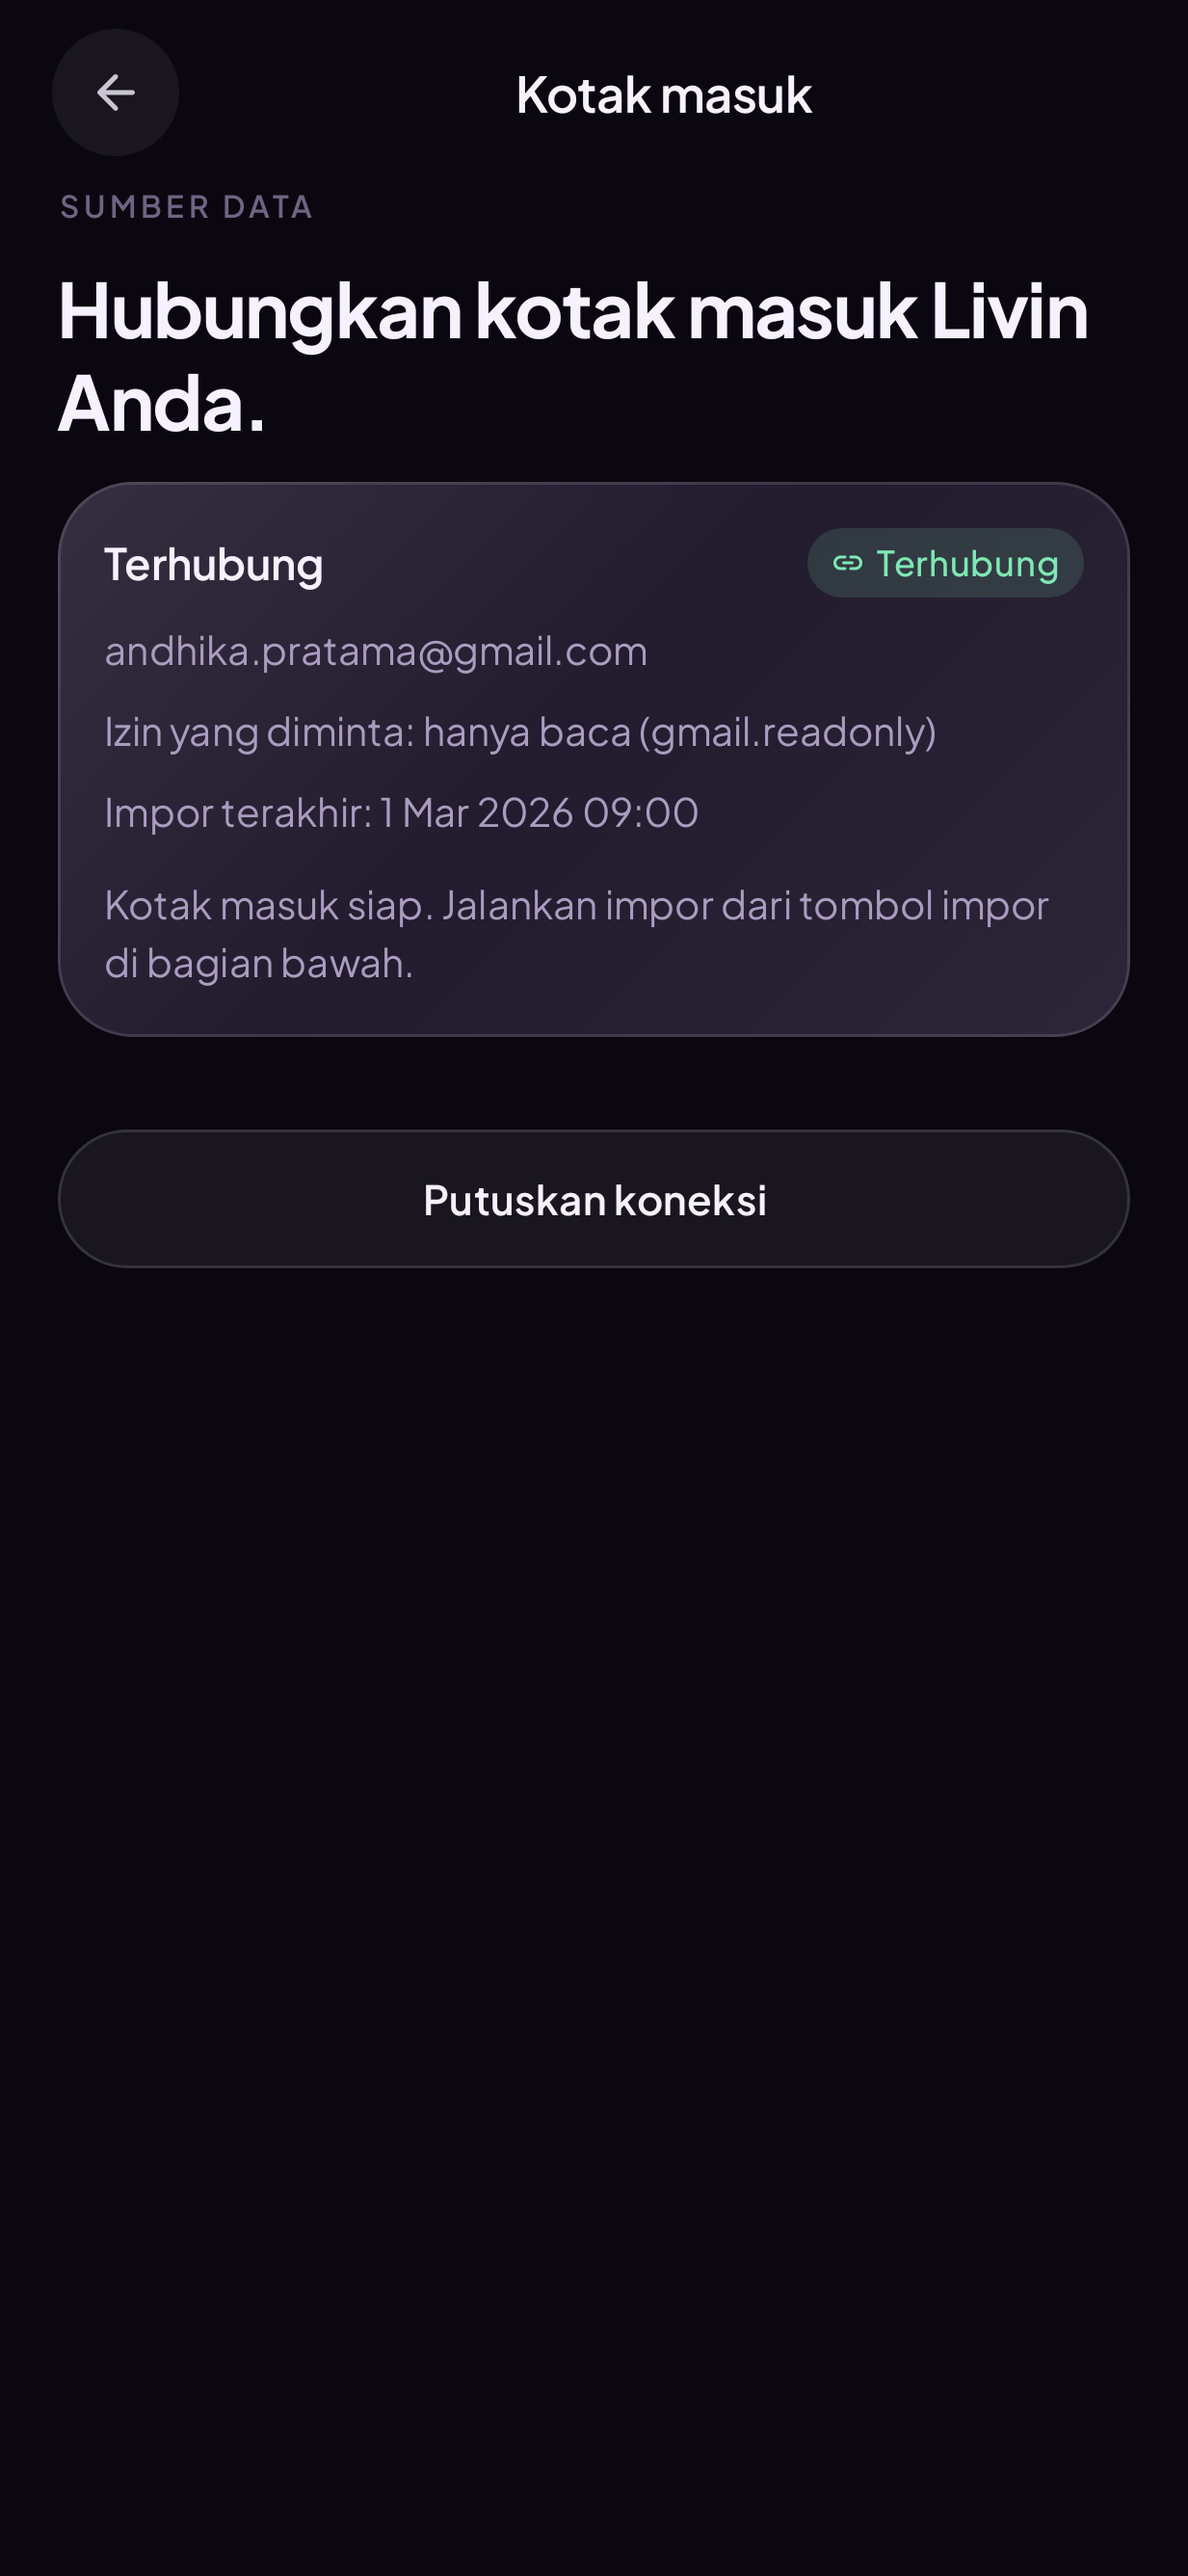
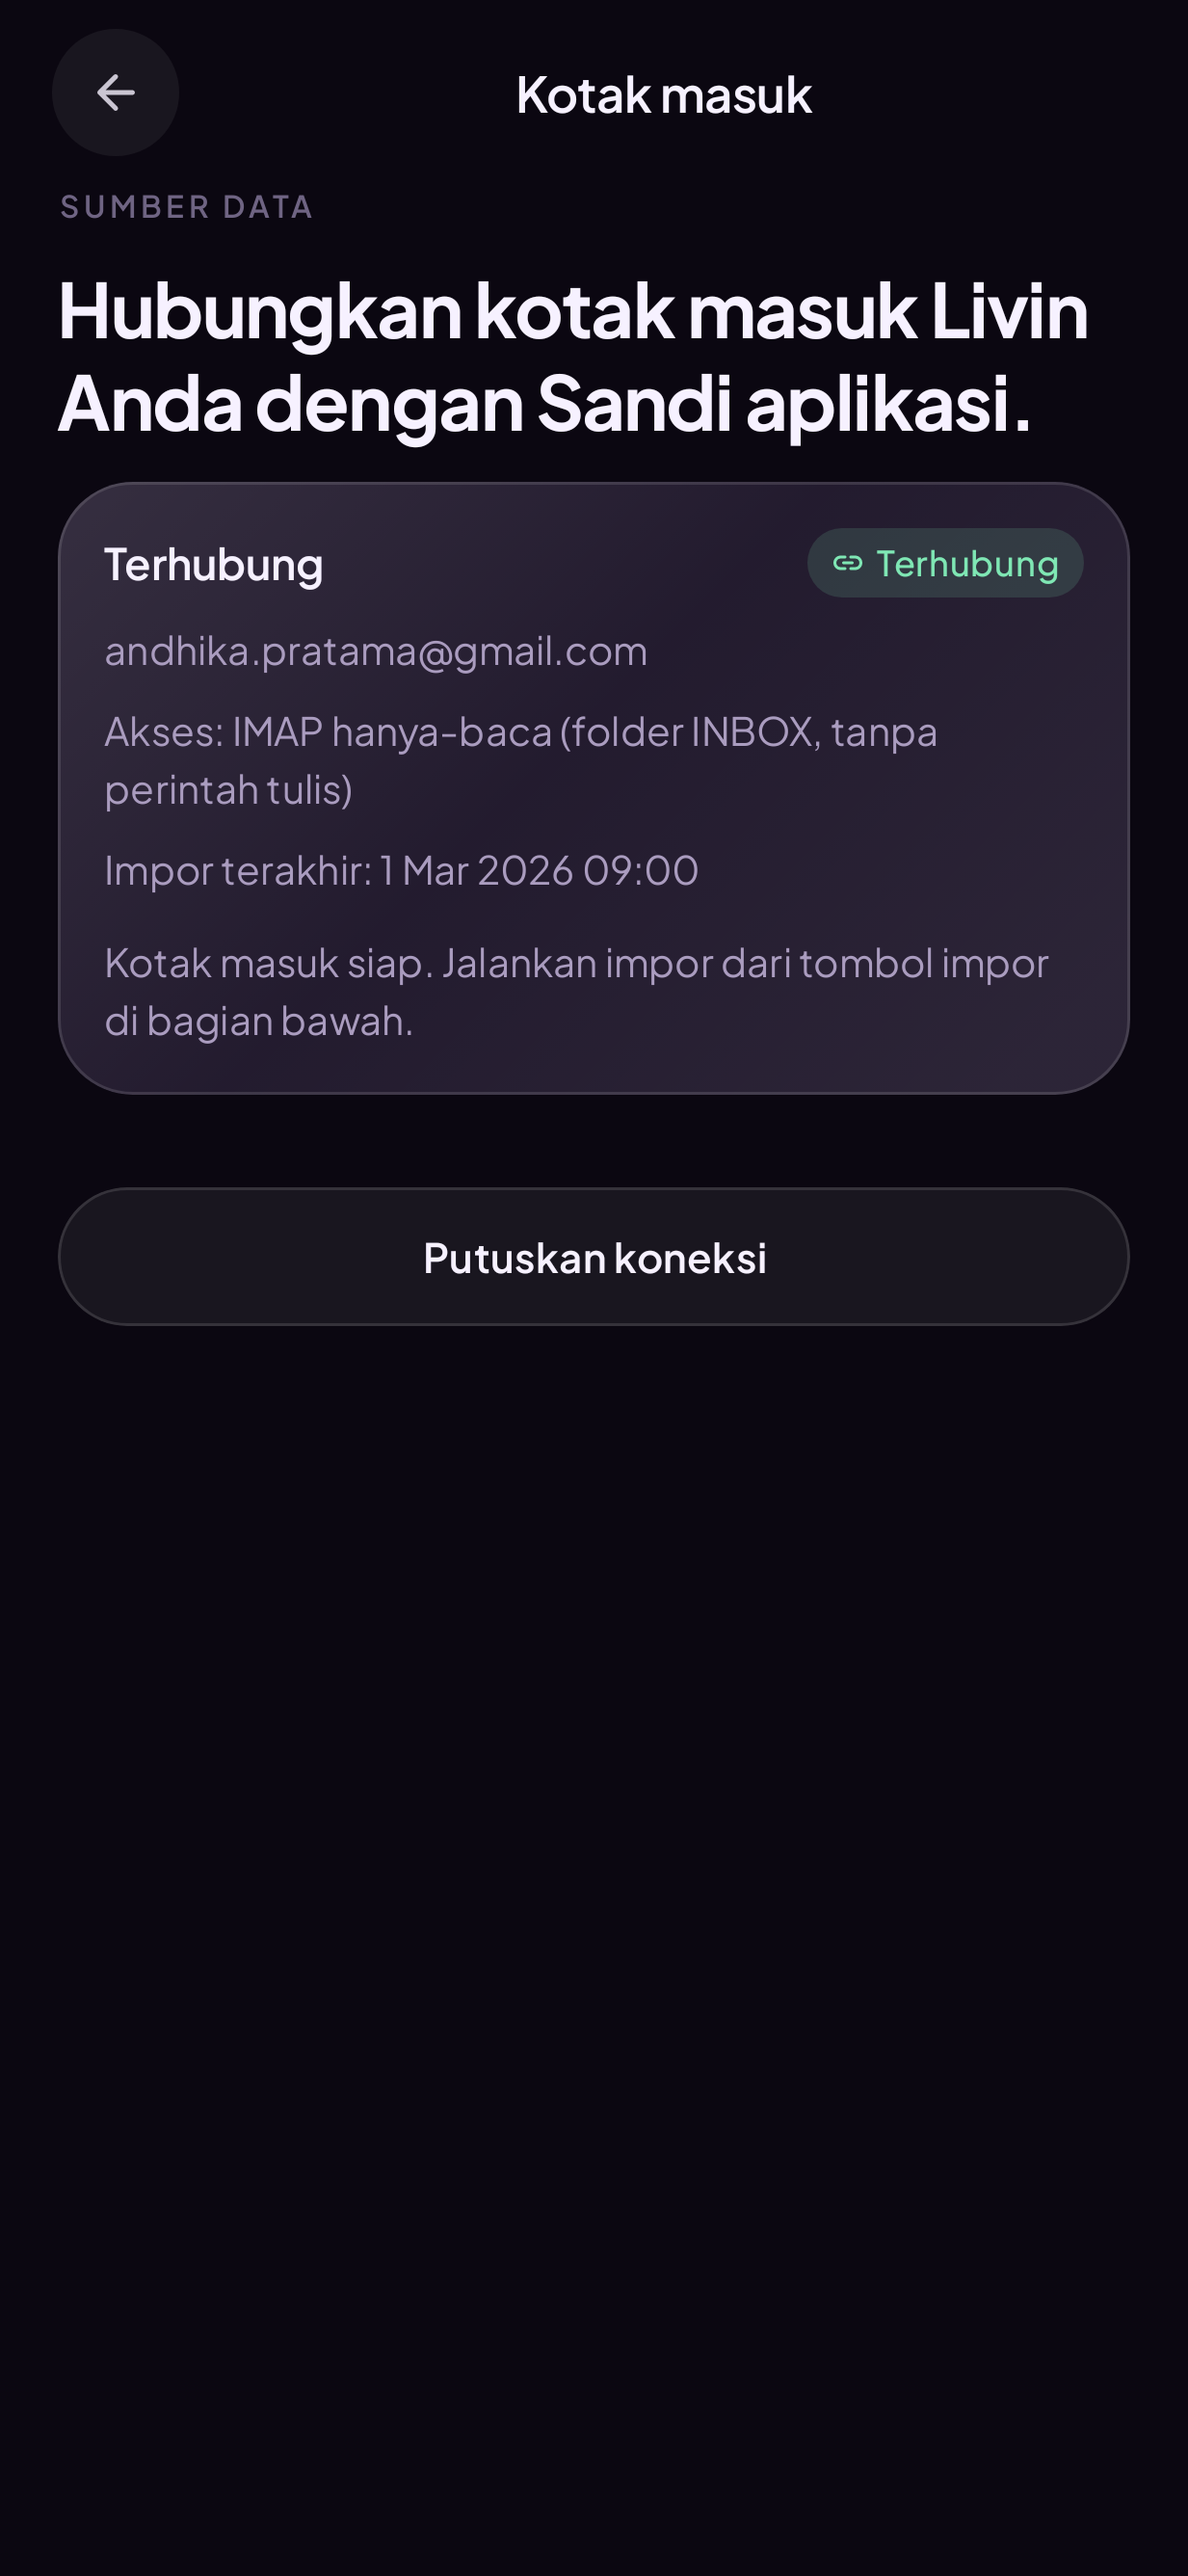
docs: amend CR-001 again with what Fase 3 (IMAP) forced
- DR-02 basis is UIDVALIDITY + UID, and is folder-scoped by nature
- FR-11 uses RFC 3501 search keys; no vendor extension required
- FR-16 pages by offset (100-message cap), not UID ranges
- NFR-05: no automatic IMAP retry; recovery is job-level
- FR-54 clears on deletion too and stores nothing on failed validation
- OI-13 states FLAG_SECURE is app-wide
- FR-07: under REAUTHORIZATION_REQUIRED local data stays readable and the UI must say so

Changed region(s): [[0.0308, 0.2795, 0.9554, 0.4968], [0.2157, 0.1242, 0.8629, 0.1863], [0.9246, 0.4658, 0.9554, 0.4968]]

diff --git a/docs/09_SRS_CHANGE_v0.3.md b/docs/09_SRS_CHANGE_v0.3.md
@@ -37,7 +37,7 @@ yang terkena, dampak pengguna, konsekuensi integrasi/keamanan, dan pembaruan acc
 | | |
 |---|---|
 | **Lama** | Enam state dipetakan ke kondisi OAuth. |
-| **Baru** | Enam state yang sama, dipetakan ke kondisi IMAP: `AUTHENTICATIONFAILED` ⇒ `REAUTHORIZATION_REQUIRED`; DNS/TLS/timeout ⇒ `UNAVAILABLE`; login OK ⇒ `CONNECTED`. |
+| **Baru** | Enam state yang sama, dipetakan ke kondisi IMAP: `AUTHENTICATIONFAILED` ⇒ `REAUTHORIZATION_REQUIRED`; DNS/TLS/timeout ⇒ `UNAVAILABLE`; login OK ⇒ `CONNECTED`. Saat `REAUTHORIZATION_REQUIRED`, data yang sudah diimpor **tetap terbaca** (NFR-22) dan UI harus menyatakan itu, bukan menyembunyikannya sebagai "tidak ada data". |
 | **Dampak** | teks bantuan berubah: "kata sandi aplikasi dicabut" menggantikan "izin OAuth dicabut". |
 
 ### FR-10 — konfigurasi tidak lengkap
@@ -51,14 +51,14 @@ yang terkena, dampak pengguna, konsekuensi integrasi/keamanan, dan pembaruan acc
 | | |
 |---|---|
 | **Lama** | "query Gmail only for the configured Livin sender and approved notification subjects". |
-| **Baru** | "…query the mailbox over IMAP with the allow-listed sender and subject criteria (Gmail `X-GM-RAW`), so that an email display name or body mention alone shall not make a message eligible." |
+| **Baru** | "…query the mailbox over IMAP using standard RFC 3501 search keys (`FROM`, `SUBJECT`, `SINCE`/`BEFORE`) restricted to the allow-listed sender and subject criteria, so that an email display name or body mention alone shall not make a message eligible. Provider-specific extensions shall not be required." |
 | **Dampak** | tetap; `X-GM-RAW` mempertahankan ekspresi pencarian yang setara. |
 
 ### FR-16 — pagination
 | | |
 |---|---|
 | **Lama** | pagination Gmail API + ingestion buffer. |
-| **Baru** | "…fetch matching messages in bounded UID batches with an ingestion buffer, then determine month membership from the parsed transaction timestamp in Asia/Jakarta rather than the received time." |
+| **Baru** | "…page over the search result set in bounded batches (default 100 messages) with an ingestion buffer, then determine month membership from the parsed transaction timestamp in Asia/Jakarta rather than the received time." |
 
 ### FR-18 — deduplikasi
 | | |
@@ -72,6 +72,11 @@ yang terkena, dampak pengguna, konsekuensi integrasi/keamanan, dan pembaruan acc
 |---|---|
 | **Lama** | HTTPS + TLS 1.2 untuk Google API. |
 | **Baru** | "…IMAP over TLS 1.2+ on port 993 with certificate and hostname verification; no cleartext IMAP." |
+
+### NFR-05 — retry (klarifikasi)
+| | |
+|---|---|
+| **Baru (klarifikasi)** | Pada jalur IMAP, kegagalan autentikasi **tidak pernah** diulang otomatis. Kegagalan jaringan **tidak** di-retry di dalam sumber data; pemulihan dilakukan pada tingkat job impor (pengguna menekan coba lagi). Aturan "maksimal dua kali retry dengan backoff" tetap berlaku untuk panggilan backend, bukan untuk sesi IMAP. |
 
 ### NFR-14 — kredensial
 | | |
@@ -117,7 +122,7 @@ FR-54 **adalah pengganti langsung FR-08**, bukan requirement tambahan yang tidak
 | **FR-51** | The system shall authenticate the user with a PAM account (email + password) hashed using a memory-hard KDF (scrypt, N=2^15, r=8, p=1, 16-byte salt). Passwords shall be 8–200 characters. Registration shall be invite-only, so no separate registration throttle is required. Password, salt and hash shall never be logged. |
 | **FR-52** | The system shall allow the application to operate fully without a backend account, using a local profile and a local session, so offline use is preserved. |
 | **FR-53** | The system shall rate-limit failed account-login attempts to 5 per 15 minutes per email+address-class, where address-class is IPv4 `/24` and IPv6 `/64` behind a trusted proxy header, and shall not disclose whether an email exists. Both real and unknown emails shall take the same time to reject. |
-| **FR-54** | The system shall obtain mailbox credentials only from a user-entered Gmail app password, validate them with an IMAP login before storing, wrap them with an Android Keystore key, and clear them on sign out or disconnect. |
+| **FR-54** | The system shall obtain mailbox credentials only from a user-entered Gmail app password, validate them with an IMAP login **before** storing, wrap them with an Android Keystore key, and clear them on sign out, on disconnect, and on workspace deletion. A failed validation shall store nothing. |
 | **FR-55** | The system shall open the mailbox read-only and issue no IMAP command that mutates message or folder state. |
 | **FR-56** | The system shall store consented monthly aggregates and reports in a managed cloud database, encrypted at rest and at field level, while transaction-level rows remain on the device. **Pending Fase 4** — Fase 2 belum menyentuh storage. |
 
@@ -129,7 +134,7 @@ FR-54 **adalah pengganti langsung FR-08**, bukan requirement tambahan yang tidak
 | | |
 |---|---|
 | **Lama** | fingerprint dari Gmail message ID; sumber "Gmail body/header". |
-| **Baru** | fingerprint dari HMAC(`X-GM-MSGID` + fields); sumber "IMAP body". Larangan menyimpan raw identifier tetap: `X-GM-MSGID` **tidak** disimpan, hanya turunan HMAC-nya. Kunci HMAC per-pengguna dibangkitkan sekali, dibungkus kunci Android Keystore (pola yang sama dengan passphrase SQLCipher), dan dihapus saat workspace dihapus. Rotasi kunci mengubah fingerprint sehingga baris lama tidak lagi cocok — karena itu rotasi dilarang tanpa migrasi ulang. |
+| **Baru** | fingerprint dari HMAC(`UIDVALIDITY` + `UID` + fields); sumber "IMAP body". Larangan menyimpan raw identifier tetap: `UIDVALIDITY` dan `UID` **tidak** disimpan, hanya turunan HMAC 32-hex. Identitas bersifat **scoped ke folder**: pesan yang dipindah keluar INBOX tidak dibaca ulang — dapat diterima untuk deduplikasi, dan pesan tetap ada di data lokal. Kunci HMAC per-pengguna dibangkitkan sekali, dibungkus kunci Android Keystore (pola yang sama dengan passphrase SQLCipher), dan dihapus saat workspace dihapus. Rotasi kunci mengubah fingerprint sehingga baris lama tidak lagi cocok — karena itu rotasi dilarang tanpa migrasi ulang. |
 | **Tidak berubah** | larangan menyimpan body, header penuh, PAN, terminal ID, lampiran. |
 
 ---
@@ -182,7 +187,7 @@ AC01, AC02, AC03 harus ditulis ulang mengikuti alur baru.
 
 | ID | Isu | Owner | Gate |
 |---|---|---|---|
-| **OI-13** | Risiko App Password (akses kirim, kredensial panjang) **diterima**; mitigasi FR-54/FR-55 wajib diverifikasi | owner + security reviewer | G2 |
+| **OI-13** | Risiko App Password (akses kirim, kredensial panjang) **diterima**; mitigasi FR-54/FR-55 wajib diverifikasi. `FLAG_SECURE` dipasang **app-wide** di `MainActivity`, bukan hanya pada layar kredensial | owner + security reviewer | G2 |
 | **OI-14** | Google dapat menghentikan App Password kapan saja; rencana keluar: kembali ke OAuth bila perlu | Android lead | G3 |
 | **OI-15** | Turso free tier: kuota, backup, dan jalur pindah ke Postgres. "Portabel" berarti **dialek SQL tetap kompatibel** dan hanya driver klien yang diganti di balik lapisan store; migrasi ke Postgres bukan sekadar tukar driver karena tipe dan klausa `ON CONFLICT` berbeda | backend lead | G2 |
 | **OI-16** | Pengguna tanpa 2FA tidak bisa memakai fitur import email; harus dijelaskan di panduan | owner | G2 |
@@ -210,6 +215,16 @@ menerjemahkan change record ini menjadi kode:
 6. FR-56 ditandai *pending Fase 4*.
 7. OI-15 menjelaskan arti portabilitas dan mengapa pindah ke Postgres bukan tukar driver.
 8. Pemetaan eksplisit FR-08 → FR-54/FR-55 ditambahkan di §3a.
+
+Amandemen kedua setelah Fase 3 (IMAP) — semua keputusan implementasi yang harus masuk requirement:
+
+9. DR-02: basis fingerprint menjadi `UIDVALIDITY + UID`, dengan catatan scoped-folder.
+10. FR-11: memakai search key standar RFC 3501, bukan `X-GM-RAW`; ekstensi vendor tidak diperlukan.
+11. FR-16: paging berbasis offset dengan batas 100 pesan, bukan rentang UID.
+12. NFR-05: retry otomatis tidak berlaku untuk IMAP; pemulihan di tingkat job.
+13. FR-54: penghapusan workspace juga menghapus kredensial; validasi gagal tidak menyimpan apa pun.
+14. OI-13: `FLAG_SECURE` ditegaskan app-wide.
+15. FR-07: saat `REAUTHORIZATION_REQUIRED`, data lokal tetap terbaca dan UI wajib menyatakannya.
 
 ## 11. Sign-off
 
